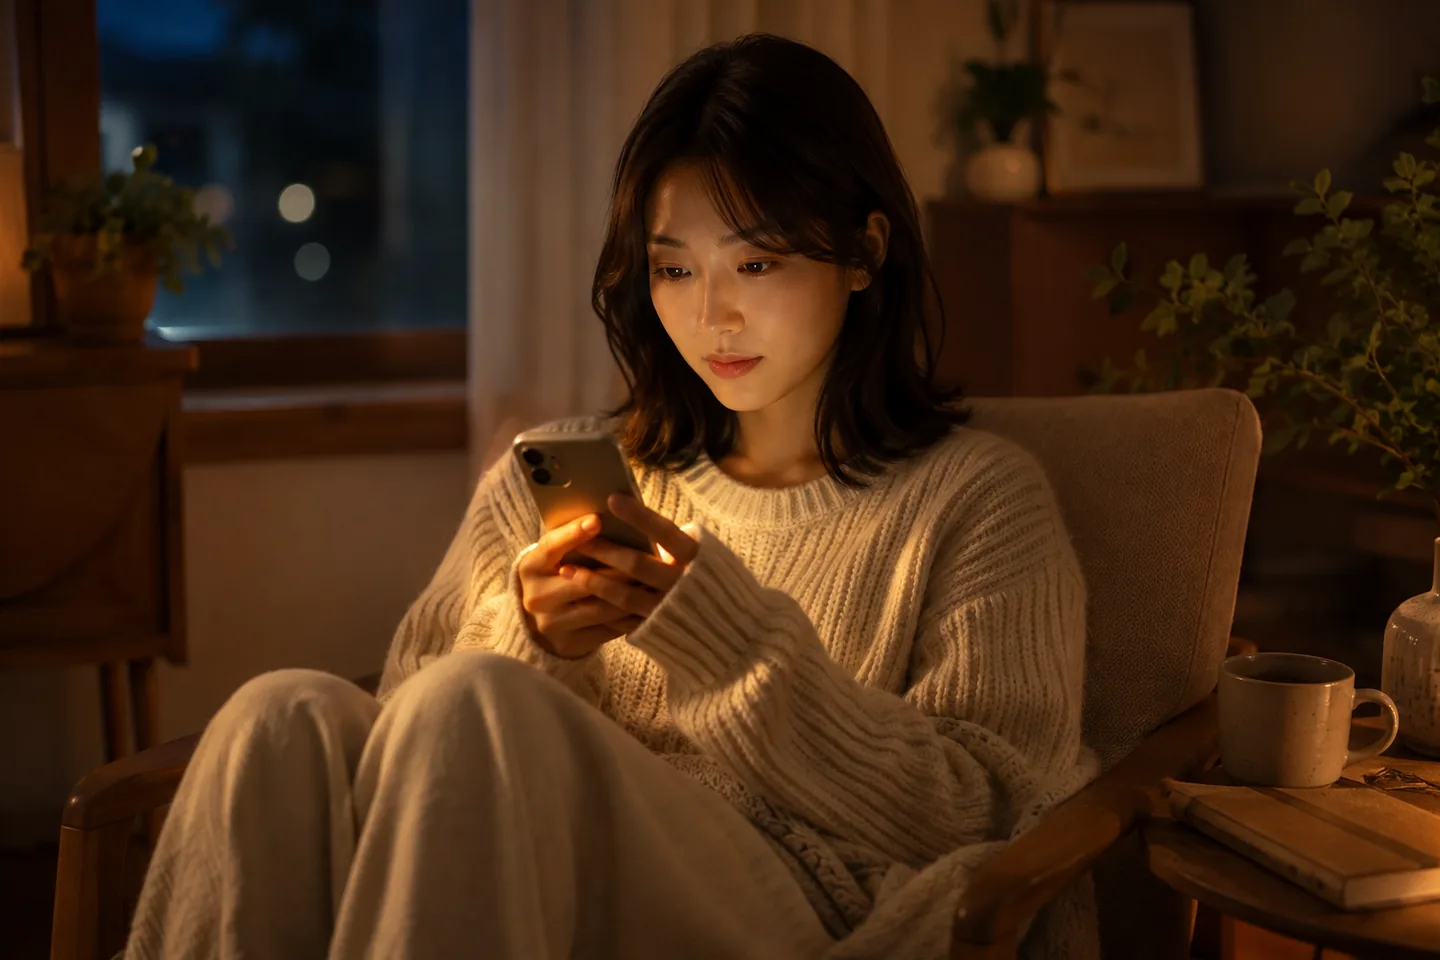
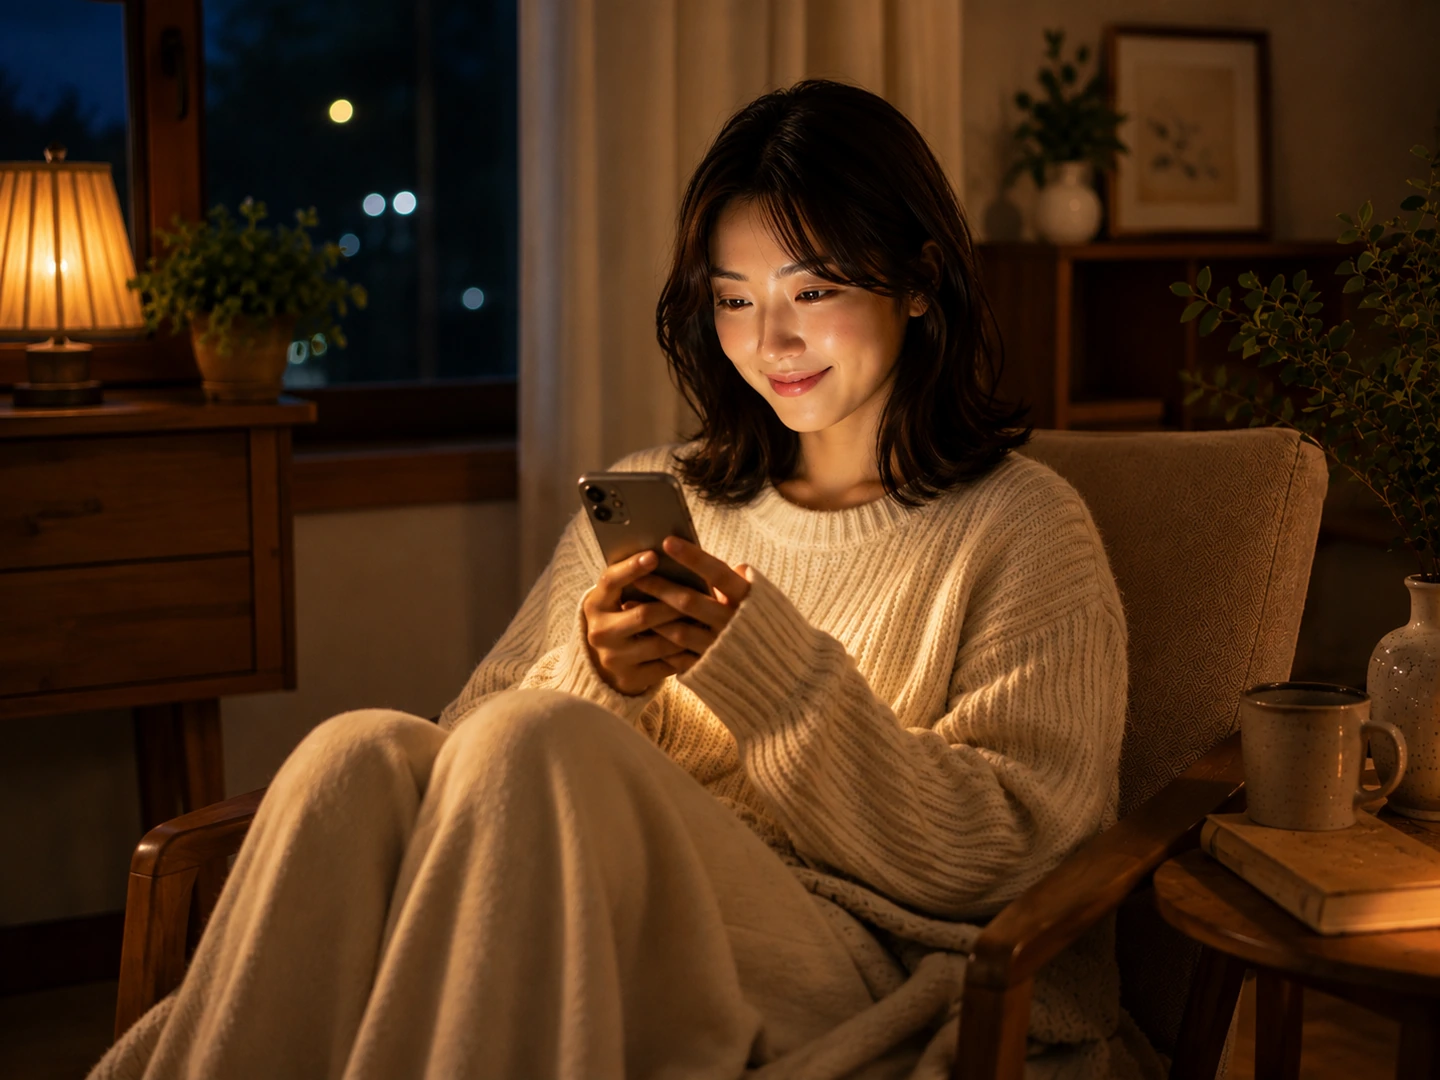
feat: 히어로에 저녁 장면을 넷째 장으로 넣는다
세 장 21초를 네 장 28초로 늘린다. 장당 지분은 7초 그대로라 한 장을
보는 시간이 짧아지지 않는다.

백분율은 초에서 거꾸로 냈다 — 1.05s=3.75%(피어남)·6.93s=24.75%
(머무름 끝)·8.4s=30%(사라짐), 자막은 4.5%·22.5%·27.75%. 다음에 장을
더 늘릴 사람을 위해 이 계산을 주석에 남겼다.

넷째 카메라는 세로팬으로 둔다. 앞 셋이 확대·가로팬·축소라 겹치지
않게. 자막은 밤 장면에 맞춰 밤하늘을 가리킨다.

모션 축소 환경에서는 s1 한 장만 남는 기존 규칙을 그대로 탄다.

앞선 세 커밋에서 style.css 를 고치고도 index.html 의 캐시 무효화
번호를 안 올려, 브라우저가 옛 스타일시트를 계속 쓰고 있었다. v=6 으로
올린다.

diff --git a/css/style.css b/css/style.css
@@ -121,12 +121,19 @@ section[id] { scroll-margin-top: 84px; }
 /* 시네마틱 히어로 — 실사 3장 크로스페이드(21s), 장면별 카메라 워크 */
 .cine-hero { position: relative; overflow: hidden; background: #14100C; min-height: 100vh; display: flex; align-items: center; justify-content: center; text-align: center; }
 .cine-slide { position: absolute; inset: -5%; background-size: cover; background-position: center 30%; opacity: 0; }
-.cine-slide.s1 { background-image: url('../assets/8.webp'); animation: cineA 21s ease-in-out infinite; }
-.cine-slide.s2 { background-image: url('../assets/3.webp'); animation: cineB 21s ease-in-out infinite 7s; }
-.cine-slide.s3 { background-image: url('../assets/7.webp'); animation: cineC 21s ease-in-out infinite 14s; }
-@keyframes cineA { 0% {opacity:0; transform:scale(1.07);} 5% {opacity:1;} 33% {opacity:1; transform:scale(1);} 40% {opacity:0;} 100% {opacity:0;} }
-@keyframes cineB { 0% {opacity:0; transform:translateX(1.6%) scale(1.04);} 5% {opacity:1;} 33% {opacity:1; transform:translateX(-1.6%) scale(1.04);} 40% {opacity:0;} 100% {opacity:0;} }
-@keyframes cineC { 0% {opacity:0; transform:scale(1);} 5% {opacity:1;} 33% {opacity:1; transform:scale(1.07);} 40% {opacity:0;} 100% {opacity:0;} }
+/* 넉 장 × 7초 = 28초 주기. 장당 지분은 그대로 7초라, 장을 더해도 한 장을
+   보는 시간은 짧아지지 않는다. 백분율은 초에서 거꾸로 낸 값이다 —
+   1.05s=3.75%(피어남) · 6.93s=24.75%(머무름 끝) · 8.4s=30%(사라짐).
+   장을 더 늘릴 땐 주기를 7초씩 키우고 이 세 값을 다시 낼 것. */
+.cine-slide.s1 { background-image: url('../assets/8.webp'); animation: cineA 28s ease-in-out infinite; }
+.cine-slide.s2 { background-image: url('../assets/3.webp'); animation: cineB 28s ease-in-out infinite 7s; }
+.cine-slide.s3 { background-image: url('../assets/7.webp'); animation: cineC 28s ease-in-out infinite 14s; }
+.cine-slide.s4 { background-image: url('../assets/11.webp'); animation: cineD 28s ease-in-out infinite 21s; }
+@keyframes cineA { 0% {opacity:0; transform:scale(1.07);} 3.75% {opacity:1;} 24.75% {opacity:1; transform:scale(1);} 30% {opacity:0;} 100% {opacity:0;} }
+@keyframes cineB { 0% {opacity:0; transform:translateX(1.6%) scale(1.04);} 3.75% {opacity:1;} 24.75% {opacity:1; transform:translateX(-1.6%) scale(1.04);} 30% {opacity:0;} 100% {opacity:0;} }
+@keyframes cineC { 0% {opacity:0; transform:scale(1);} 3.75% {opacity:1;} 24.75% {opacity:1; transform:scale(1.07);} 30% {opacity:0;} 100% {opacity:0;} }
+/* 넷째는 세로로 천천히 내려앉는다 — 앞 셋(확대·가로팬·축소)과 겹치지 않게. */
+@keyframes cineD { 0% {opacity:0; transform:translateY(-1.4%) scale(1.05);} 3.75% {opacity:1;} 24.75% {opacity:1; transform:translateY(1.4%) scale(1.05);} 30% {opacity:0;} 100% {opacity:0;} }
 .cine-veil { position: absolute; inset: 0; background:
   radial-gradient(120% 90% at 50% 40%, transparent 40%, rgba(10,7,5,.55) 100%),
   linear-gradient(180deg, rgba(20,16,12,.6) 0%, rgba(20,16,12,.34) 45%, rgba(20,16,12,.78) 100%); }
@@ -141,10 +148,12 @@ section[id] { scroll-margin-top: 84px; }
 .badge-soon.on-dark { background: rgba(255,255,255,.95); border-color: transparent; }
 .cine-caption { position: absolute; z-index: 2; bottom: 64px; left: 0; right: 0; height: 24px; pointer-events: none; }
 .cine-caption span { position: absolute; left: 50%; transform: translateX(-50%); color: rgba(255,255,255,.72); font-size: 14.5px; font-weight: 600; letter-spacing: .01em; text-shadow: 0 2px 12px rgba(0,0,0,.5); white-space: nowrap; opacity: 0; }
-.cine-caption .c1 { animation: cap 21s ease-in-out infinite; }
-.cine-caption .c2 { animation: cap 21s ease-in-out infinite 7s; }
-.cine-caption .c3 { animation: cap 21s ease-in-out infinite 14s; }
-@keyframes cap { 0% {opacity:0; transform:translate(-50%, 8px);} 6% {opacity:1; transform:translate(-50%, 0);} 30% {opacity:1;} 37% {opacity:0;} 100% {opacity:0;} }
+/* 자막도 같은 28초에 태운다. 1.26s=4.5% · 6.3s=22.5% · 7.77s=27.75%. */
+.cine-caption .c1 { animation: cap 28s ease-in-out infinite; }
+.cine-caption .c2 { animation: cap 28s ease-in-out infinite 7s; }
+.cine-caption .c3 { animation: cap 28s ease-in-out infinite 14s; }
+.cine-caption .c4 { animation: cap 28s ease-in-out infinite 21s; }
+@keyframes cap { 0% {opacity:0; transform:translate(-50%, 8px);} 4.5% {opacity:1; transform:translate(-50%, 0);} 22.5% {opacity:1;} 27.75% {opacity:0;} 100% {opacity:0;} }
 .scroll-cue { position: absolute; z-index: 2; bottom: 22px; left: 50%; transform: translateX(-50%); width: 22px; height: 34px; border: 1.6px solid rgba(255,255,255,.45); border-radius: 12px; }
 .scroll-cue::after { content: ""; position: absolute; left: 50%; top: 7px; width: 3px; height: 7px; margin-left: -1.5px; border-radius: 3px; background: rgba(255,255,255,.75); animation: cue 1.8s ease-in-out infinite; }
 @keyframes cue { 0% {opacity:0; transform:translateY(0);} 30% {opacity:1;} 100% {opacity:0; transform:translateY(10px);} }
@@ -402,9 +411,9 @@ section[id] { scroll-margin-top: 84px; }
    width:100% 가 곧 화면 폭이 된다 — 100vw 를 쓰면 스크롤바 폭까지 세어
    가로 스크롤이 생긴다. 아래 여백(-96px)은 .pro 의 padding-bottom 을 지워
    사진이 다음 섹션에 맞닿게 한다. */
-.pro-media { margin: 56px 0 -96px; height: min(58vh, 440px); }
+.pro-media { margin: 56px 0 -96px; height: 74vh; background: #14100C; }
 .pro-media img {
   width: 100%; height: 100%; object-fit: cover;
   /* 얼굴이 위쪽 1/3 에 있어 가운데로 자르면 이마가 잘린다. */
-  object-position: center 32%;
+  object-position: center 30%;
 }

diff --git a/index.html b/index.html
@@ -20,7 +20,7 @@
   <link rel="preload" as="image" href="assets/3.webp">
   <link rel="preload" as="image" href="assets/7.webp">
   <link rel="stylesheet" href="https://cdn.jsdelivr.net/gh/orioncactus/pretendard@v1.3.9/dist/web/static/pretendard.min.css">
-  <link rel="stylesheet" href="css/style.css?v=4">
+  <link rel="stylesheet" href="css/style.css?v=6">
   <link rel="stylesheet" href="css/landing-stage.css?v=1">
   <noscript><style>
     .reveal { opacity: 1; transform: none; }
@@ -73,6 +73,7 @@
       <div class="cine-slide s1"></div>
       <div class="cine-slide s2"></div>
       <div class="cine-slide s3"></div>
+      <div class="cine-slide s4"></div>
       <div class="cine-veil"></div>
       <div class="cine-copy">
         <h1><span class="l">기록할수록,</span><span class="l l2"><em>나를 알게 됩니다</em></span></h1>
@@ -83,6 +84,7 @@
         <span class="c1">잔잔한 배경음과 함께, 오늘을 음미하는 시간</span>
         <span class="c2">따뜻한 목소리가 오늘의 기록을 읽어줍니다</span>
         <span class="c3">비행기 모드에서도 — 전부 기기 안에서</span>
+        <span class="c4">기록 하나가 별 하나, 한 달의 마음이 은하수로</span>
       </div>
       <div class="scroll-cue" aria-hidden="true"></div>
     </section>
